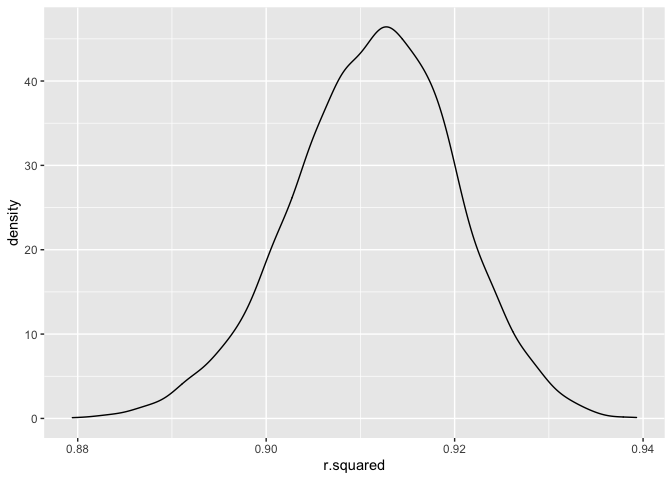
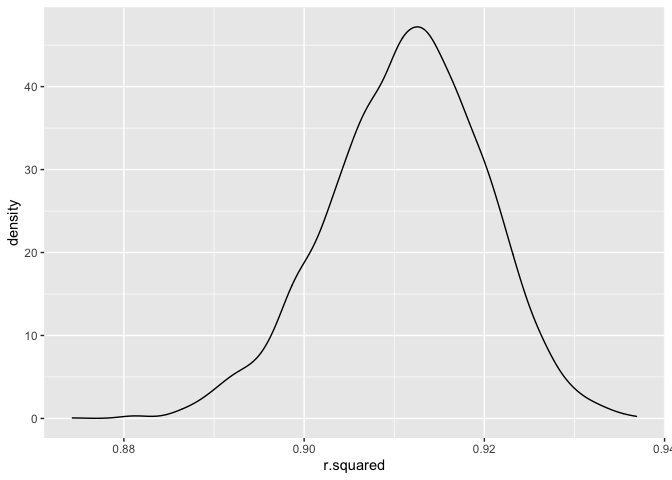
fix a small rendering issue

diff --git a/p8105_hw6_hw2851.md b/p8105_hw6_hw2851.md
@@ -103,10 +103,10 @@ cv_df %>%
 ![](p8105_hw6_hw2851_files/figure-gfm/unnamed-chunk-5-1.png)<!-- -->
 From the plot, it’s clear that the model using head circumference,
 length, sex, and all interactions is the best-performing one, with mean
-RMSE of 288.4765838; the model using length at birth and gestational age
-is the second best performing, with mean RMSE of 334.0768149. Our model,
+RMSE of 289.8651621; the model using length at birth and gestational age
+is the second best performing, with mean RMSE of 334.9889326. Our model,
 unfortunately, performs worse than the other two models with mean RMSE
-of 473.3207077.
+of 474.5325911.
 
 ## Problem 2
 
@@ -163,7 +163,7 @@ r_squared %>%
 
 | r_squared_ci_lower | r_squared_ci_upper |
 |-------------------:|-------------------:|
-|          0.8933562 |          0.9275685 |
+|          0.8929949 |          0.9270788 |
 
 Then we plot the distribution of *r̂*<sup>2</sup>:
 
@@ -175,7 +175,7 @@ r_squared %>%
 ![](p8105_hw6_hw2851_files/figure-gfm/unnamed-chunk-10-1.png)<!-- --> It
 roughly follows normal distribution with mean around 0.913.
 
-Similarly, we compute $\\log(\\hat{\\beta_0} \* \\hat{\\beta_1})$:
+Similarly, we compute log(beta_0 \* beta_1):
 
 ``` r
 log_beta_products =
@@ -203,7 +203,7 @@ log_beta_products %>%
 
 | log_beta_product_ci_lower | log_beta_product_ci_upper |
 |--------------------------:|--------------------------:|
-|                  1.965393 |                  2.058497 |
+|                  1.964271 |                  2.058733 |
 
 Then plot its distribution:
 
@@ -214,5 +214,4 @@ log_beta_products %>%
 
 ![](p8105_hw6_hw2851_files/figure-gfm/unnamed-chunk-13-1.png)<!-- -->
 
-$\\log(\\hat{\\beta_0} \* \\hat{\\beta_1})$ also roughly follows normal
-distribution, with mean around 2.01.
+It also roughly follows normal distribution, with mean around 2.01.
